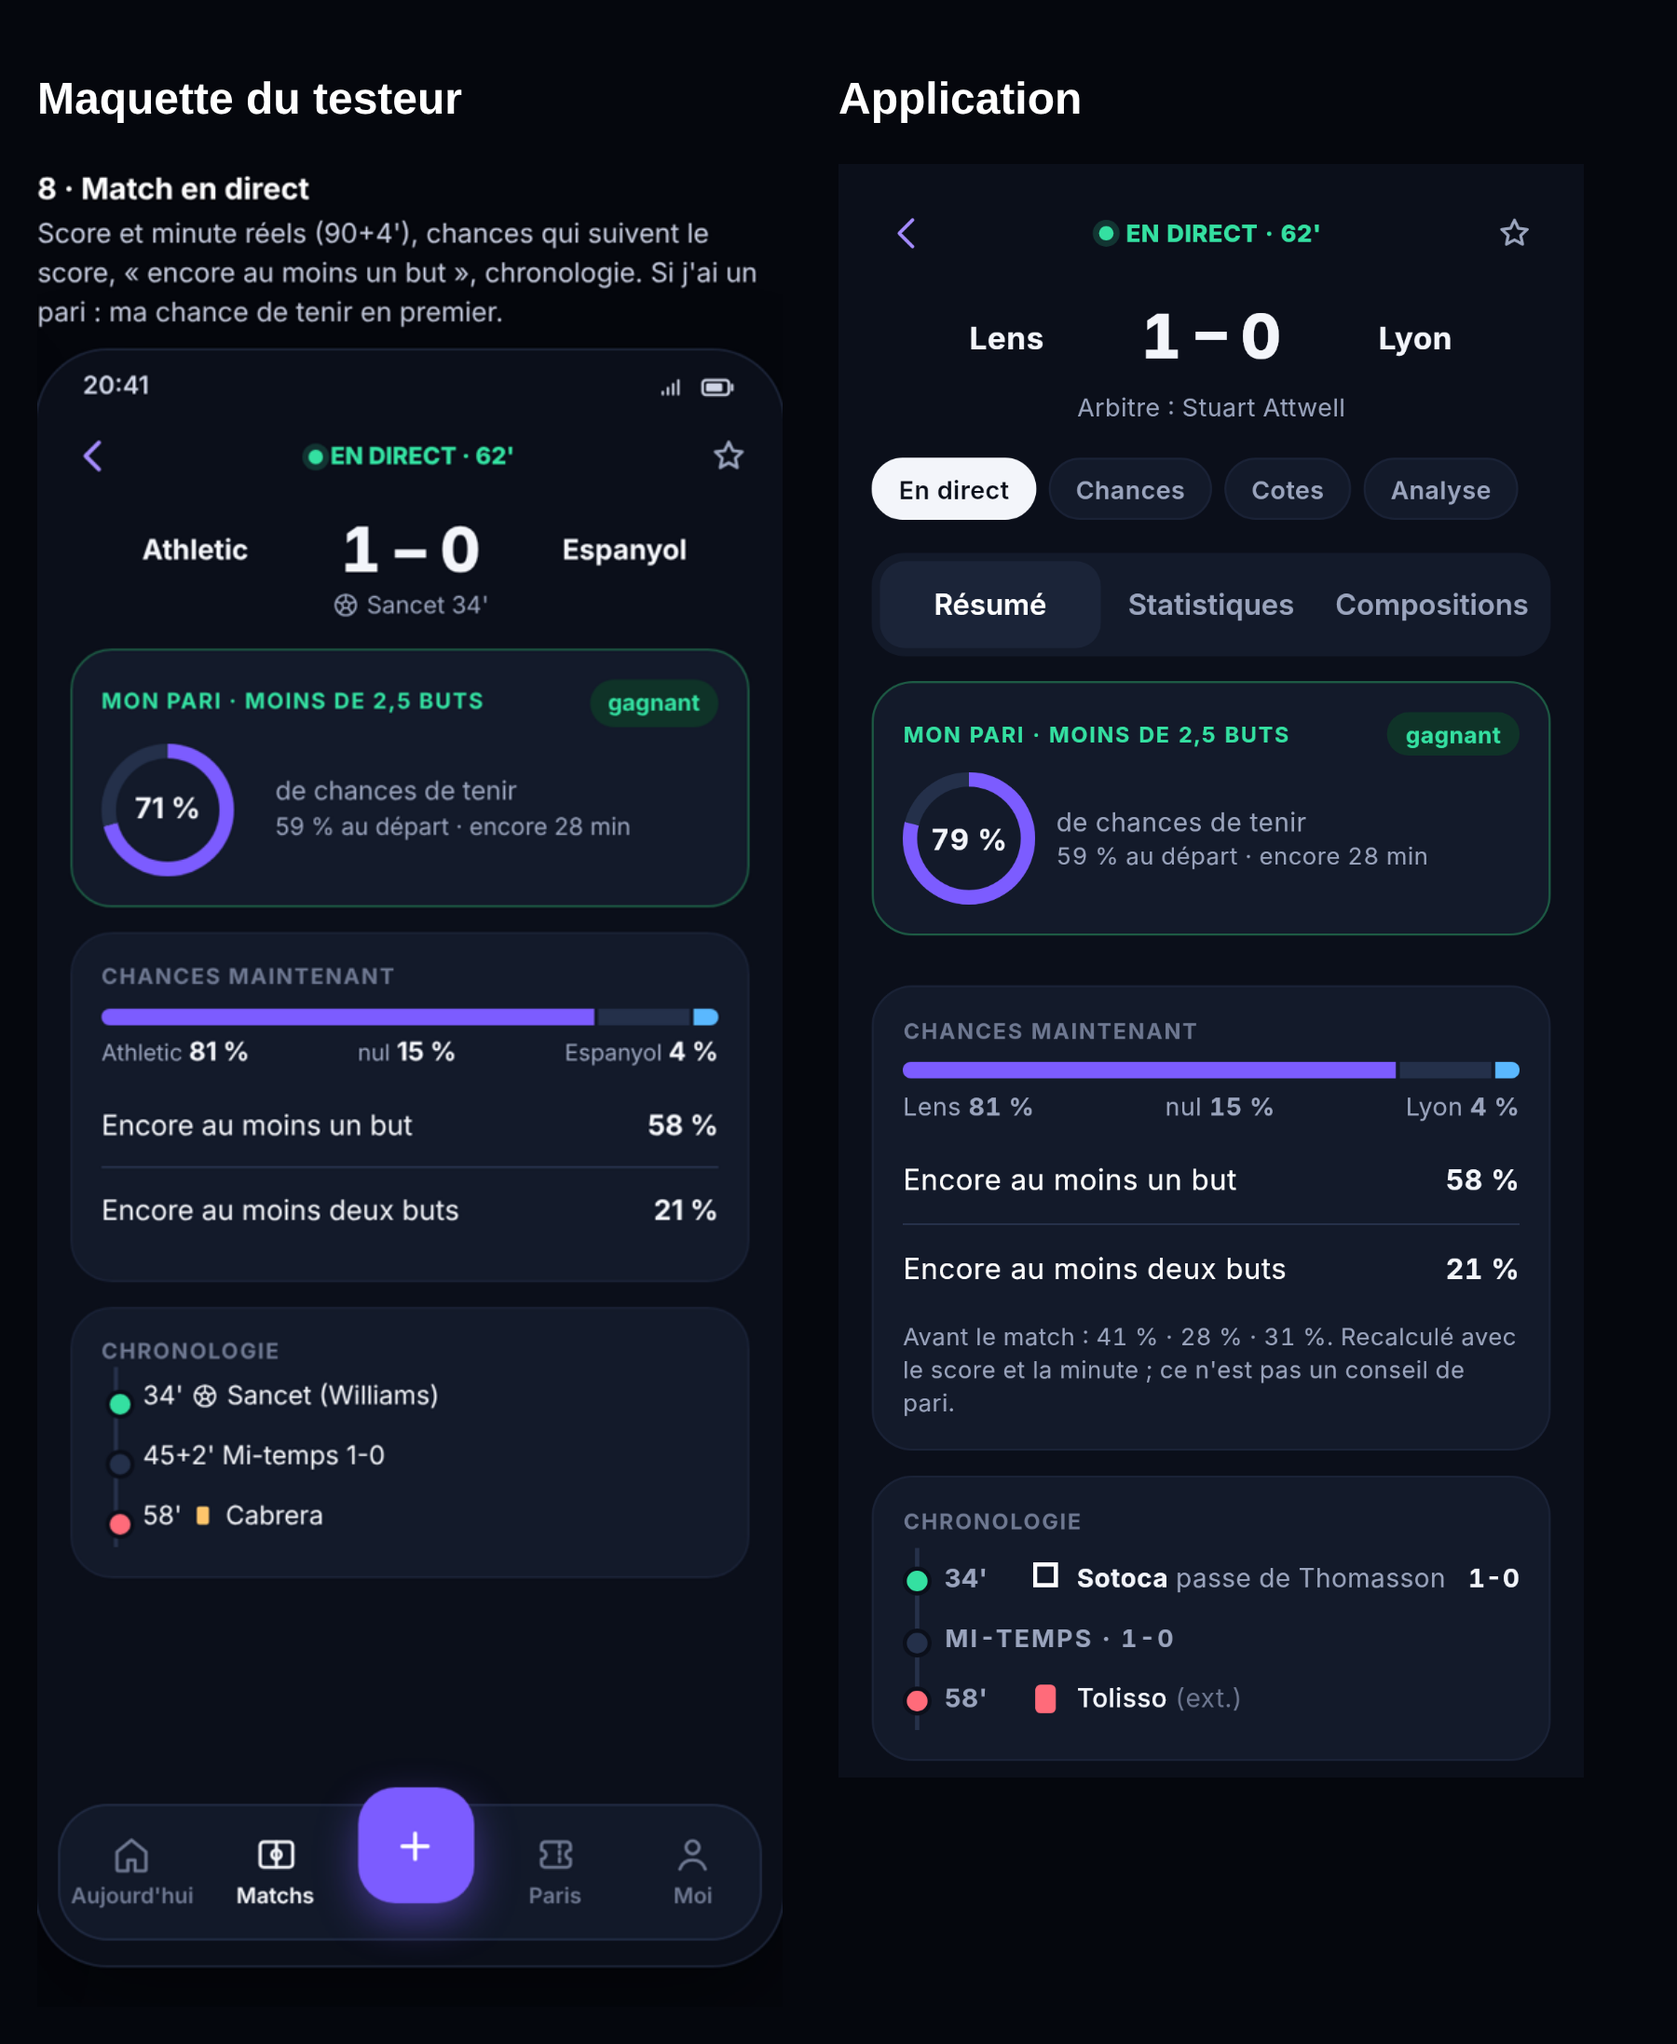
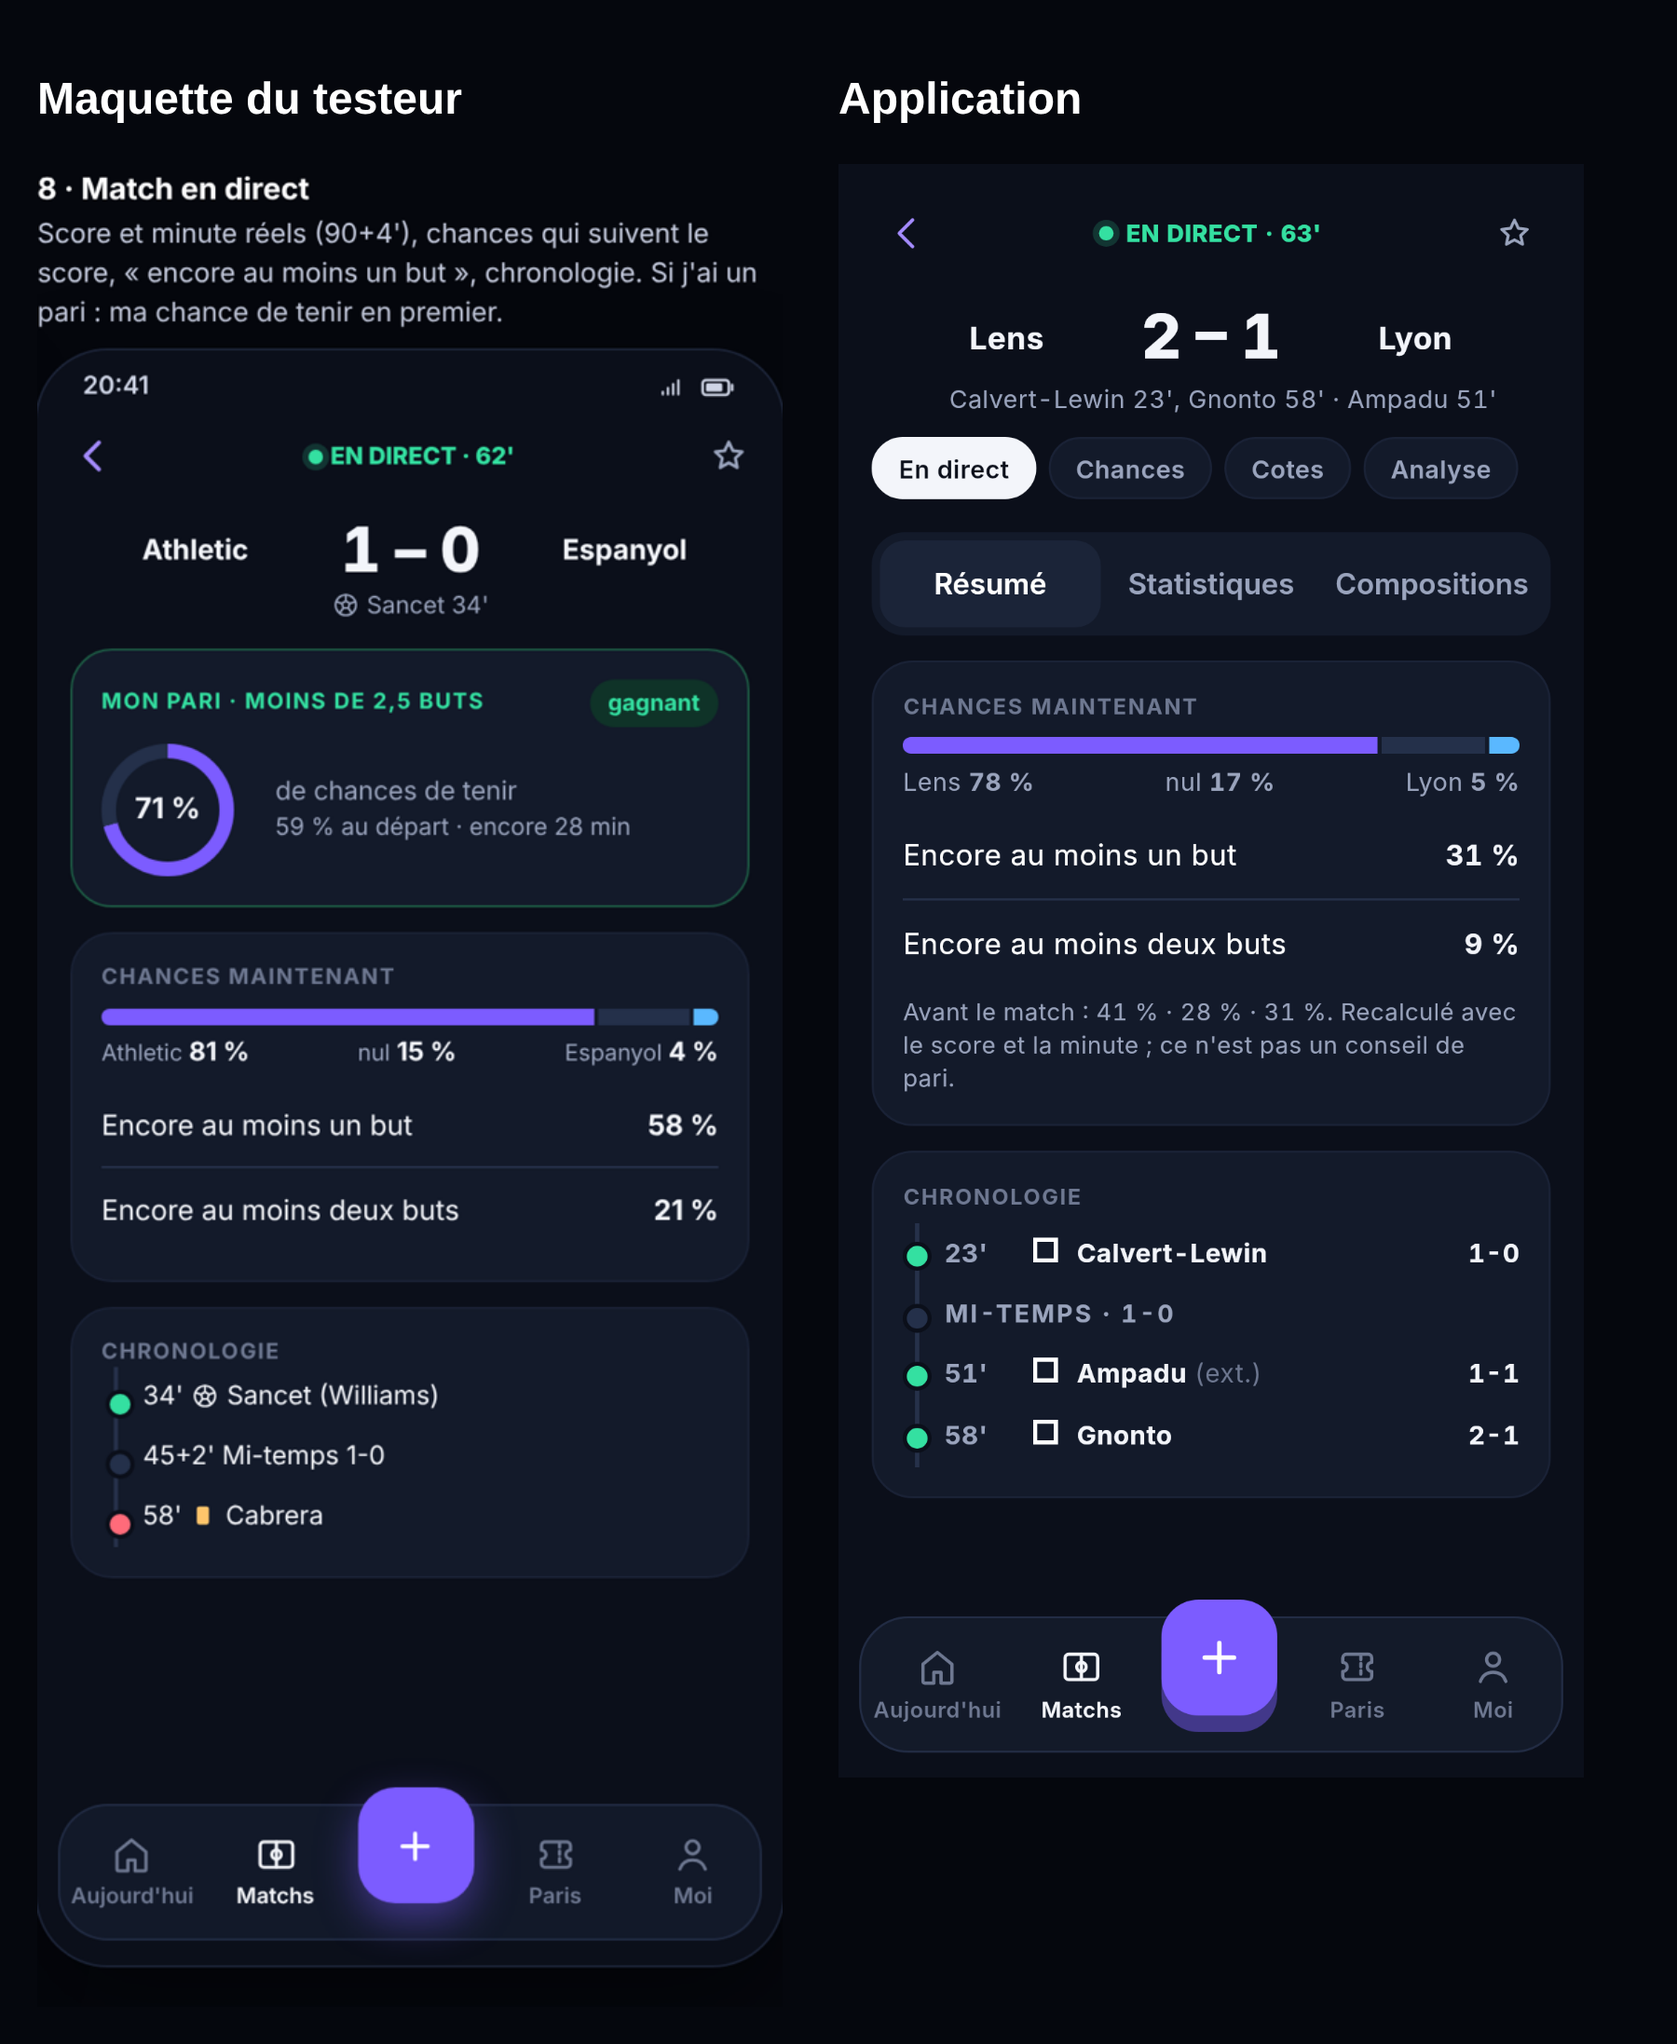
Revue des maquettes 07, 08, 09, 12, 13, 18, 19
- Match en direct (8) : buteurs sous le score, arbitre seulement avant le match
- Mon coupon (13) : 41 % n'est plus « 1 chance sur 2 » mais « environ 4 fois sur 10 »
- Fiche d'un pari (19) et partout hors fiche du match : un marché d'une seule équipe
  dit laquelle (« Buts de Ghana · Moins de 3,5 buts »)
- Comparaisons côte à côte mises à jour

Claude-Session: https://claude.ai/code/session_01D1BNdygW426Eq3G75yyrXh

diff --git a/app/lib/screens/match_screen.dart b/app/lib/screens/match_screen.dart
@@ -126,6 +126,14 @@ class _MatchViewState extends State<_MatchView> {
   // d'office pendant le match (maquette D2, plan du 10/11/2026, étape 7).
   late int tab = widget.data.match.isLive ? 0 : (widget.data.match.started ? 1 : 0);
 
+  /// Buteurs sous le score (maquette 8), tirés du relevé lu par l'onglet du direct.
+  String? scorers;
+
+  void _setScorers(List<Json> events) {
+    final line = scorerLine(events);
+    if (mounted && line != scorers) setState(() => scorers = line);
+  }
+
   @override
   void didUpdateWidget(_MatchView old) {
     super.didUpdateWidget(old);
@@ -157,7 +165,7 @@ class _MatchViewState extends State<_MatchView> {
     final live = m.started;
     final index = live ? tab - 1 : tab;
     final content = live && tab == 0
-        ? [LiveTab(match: m, before: _before(d))]
+        ? [LiveTab(match: m, before: _before(d), onEvents: _setScorers)]
         : switch (index) {
             0 => _probabilities(d),
             1 => _odds(context, d),
@@ -242,6 +250,17 @@ class _MatchViewState extends State<_MatchView> {
                 Expanded(child: _bigTeam(m.away, Fp.lossText)),
               ],
             ),
+          if (m.started && scorers != null)
+            Padding(
+              padding: const EdgeInsets.only(top: 2),
+              child: Text(
+                scorers!,
+                textAlign: TextAlign.center,
+                maxLines: 2,
+                overflow: TextOverflow.ellipsis,
+                style: V.mu_(12),
+              ),
+            ),
           if (m.started && !m.isLive)
             Padding(
               padding: const EdgeInsets.only(top: 2),
@@ -289,7 +308,7 @@ class _MatchViewState extends State<_MatchView> {
                   ),
                 ),
             ],
-          if (m.referee != null && (m.started || tab == 0))
+          if (m.referee != null && !m.started && tab == 0)
             Center(
               child: InkWell(
                 borderRadius: BorderRadius.circular(8),
@@ -1448,4 +1467,17 @@ class _EnginePicks extends StatelessWidget {
       ),
     );
   }
+}
+
+/// « ⚽ Calvert-Lewin 23', Gnonto 58' · Ampadu 51' » : buteurs de l'équipe à domicile puis
+/// de l'équipe à l'extérieur ; null sans but. Penalty manqué exclu, contre son camp signalé.
+String? scorerLine(List<Json> events) {
+  String side(String s) => [
+    for (final e in events)
+      if (e['kind'] == 'Goal' && e['detail'] != 'Missed Penalty' && e['side'] == s && e['player'] != null)
+        '${e['player']}${e['detail'] == 'Own Goal' ? ' (csc)' : ''} '
+            '${e['minute']}${e['extra'] != null && e['extra'] != 0 ? '+${e['extra']}' : ''}\'',
+  ].join(', ');
+  final parts = [side('home'), side('away')].where((t) => t.isNotEmpty);
+  return parts.isEmpty ? null : '⚽ ${parts.join(' · ')}';
 }

diff --git a/app/lib/screens/today_screen.dart b/app/lib/screens/today_screen.dart
@@ -627,9 +627,7 @@ class _LiveCard extends StatelessWidget {
     };
     final p = ((chances[s.matchId]?['markets'] as Map?)?['${s.market}|${s.line}|${s.selection}'] as num?)
         ?.toDouble();
-    final label = lowerLabel(
-      selectionLabel(s.market, s.line, s.selection, home: s.homeTeam, away: s.awayTeam),
-    );
+    final label = lowerLabel(pickLabel(s.market, s.line, s.selection, home: s.homeTeam, away: s.awayTeam));
     return SizedBox(
       width: 230,
       child: VCard2(
@@ -706,13 +704,7 @@ class _BetLine extends StatelessWidget {
     final title =
         montante ??
         (n == 1
-            ? selectionLabel(
-                first.market,
-                first.line,
-                first.selection,
-                home: first.homeTeam,
-                away: first.awayTeam,
-              )
+            ? pickLabel(first.market, first.line, first.selection, home: first.homeTeam, away: first.awayTeam)
             : 'Combiné · $n sélections');
     // Palier de montante pas encore joué : la date du match (maquette 35 « Lens – Lyon · sam. 20:45 »).
     final k = first.kickoffAt?.toLocal();
@@ -807,7 +799,7 @@ class _OccasionLine extends StatelessWidget {
     final home = a['home'] as String, away = a['away'] as String;
     final engine = (a['engine'] as num).toDouble(), implied = (a['implied'] as num).toDouble();
     final label = lowerLabel(
-      selectionLabel(
+      pickLabel(
         a['market'] as String,
         (a['line'] ?? '') as String,
         a['selection'] as String,

diff --git a/app/lib/screens/live_coupon_screen.dart b/app/lib/screens/live_coupon_screen.dart
@@ -275,7 +275,7 @@ class _MatchRow extends StatelessWidget {
                         child: Column(
                           crossAxisAlignment: CrossAxisAlignment.start,
                           children: [
-                            Text(selectionLabel(s.market, s.line, s.selection, home: m.home, away: m.away)),
+                            Text(pickLabel(s.market, s.line, s.selection, home: m.home, away: m.away)),
                             Text(
                               '$profile · moteur ${chancePercent(s.probability)} · cote ${chancePercent(implied(s))}',
                               style: V.mu_(),
@@ -345,7 +345,7 @@ class _ComboSheet extends StatelessWidget {
                               style: Fp.body(12, color: Fp.muted),
                             ),
                             Text(
-                              selectionLabel(s.market, s.line, s.selection, home: m.home, away: m.away),
+                              pickLabel(s.market, s.line, s.selection, home: m.home, away: m.away),
                               style: Fp.body(14.5, weight: FontWeight.w700),
                             ),
                             Text(

diff --git a/app/test/format_test.dart b/app/test/format_test.dart
@@ -43,6 +43,11 @@ void main() {
     expect(selectionLabel('1X2', '', 'draw', home: h, away: a), 'Match nul');
     expect(selectionLabel('DC', '', 'X2', home: h, away: a), 'Nul ou Lyon');
     expect(selectionLabel('OU', '2.5', 'over'), 'Plus de 2,5 buts');
+    expect(pickLabel('OU', '2.5', 'over'), 'Plus de 2,5 buts');
+    expect(
+      pickLabel('TEAM_OU_AWAY', '3.5', 'under', home: 'Somalie', away: 'Ghana'),
+      'Buts de Ghana · Moins de 3,5 buts',
+    );
     expect(selectionLabel('OU', '0.5', 'under'), 'Moins de 0,5 but');
     // Handicap asiatique : ligne côté domicile, l'extérieur a la ligne opposée.
     expect(selectionLabel('AH', '-0.25', 'home', home: h, away: a), 'Lens (−0,25)');
@@ -77,6 +82,8 @@ void main() {
     expect(chanceInWords(0.5), 'environ 5 fois sur 10');
     expect(chanceInWords(1 / 60), '1 chance sur 60');
     expect(chanceInWords(0.3), '1 chance sur 3');
+    expect(chanceInWords(0.23), '1 chance sur 4');
+    expect(chanceInWords(0.41), 'environ 4 fois sur 10'); // pas « 1 chance sur 2 »
   });
 
   test('numéro Wave groupé deux par deux', () {

diff --git a/app/lib/screens/smart_coupon_screen.dart b/app/lib/screens/smart_coupon_screen.dart
@@ -925,7 +925,7 @@ class _SmartCouponScreenState extends State<SmartCouponScreen> {
                             Text(
                               [
                                 lowerLabel(
-                                  selectionLabel(
+                                  pickLabel(
                                     s['market'] as String,
                                     (s['line'] ?? '') as String,
                                     s['selection'] as String,
@@ -1776,7 +1776,7 @@ class _Example extends StatelessWidget {
                         children: [
                           Text('${s['home']} – ${s['away']}', style: Fp.body(13.5)),
                           Text(
-                            selectionLabel(
+                            pickLabel(
                               '${s['market']}',
                               '${s['line'] ?? ''}',
                               '${s['selection']}',

diff --git a/app/test/scorer_line_test.dart b/app/test/scorer_line_test.dart
@@ -1,0 +1,18 @@
+import 'package:flutter_test/flutter_test.dart';
+import 'package:footprono/screens/match_screen.dart' show scorerLine;
+
+void main() {
+  test('buteurs sous le score : domicile puis extérieur, penalty manqué exclu', () {
+    expect(scorerLine([]), isNull);
+    expect(
+      scorerLine([
+        {'minute': 23, 'side': 'home', 'kind': 'Goal', 'detail': 'Normal Goal', 'player': 'Calvert-Lewin'},
+        {'minute': 30, 'side': 'away', 'kind': 'Goal', 'detail': 'Missed Penalty', 'player': 'X'},
+        {'minute': 45, 'extra': 2, 'side': 'away', 'kind': 'Goal', 'detail': 'Own Goal', 'player': 'Ampadu'},
+        {'minute': 58, 'side': 'home', 'kind': 'Goal', 'detail': 'Penalty', 'player': 'Gnonto'},
+        {'minute': 60, 'side': 'home', 'kind': 'Card', 'detail': 'Yellow Card', 'player': 'Y'},
+      ]),
+      "⚽ Calvert-Lewin 23', Gnonto 58' · Ampadu (csc) 45+2'",
+    );
+  });
+}

diff --git a/app/lib/screens/live_tab.dart b/app/lib/screens/live_tab.dart
@@ -29,8 +29,11 @@ const liveStatLabels = [
 ];
 
 class LiveTab extends StatefulWidget {
-  const LiveTab({super.key, required this.match, this.before, this.section});
+  const LiveTab({super.key, required this.match, this.before, this.section, this.onEvents});
   final MatchInfo match;
+
+  /// Événements du match à chaque relevé (buteurs sous le score, maquette 8).
+  final ValueChanged<List<Json>>? onEvents;
 
   /// Une seule partie, sans les onglets (2 : compositions, onglet « Compos » avant le match).
   final int? section;
@@ -81,6 +84,7 @@ class _LiveTabState extends State<LiveTab> {
           data = j;
           error = null;
         });
+        widget.onEvents?.call([for (final e in j['events'] as List? ?? const []) e as Json]);
       }
     } on ApiException catch (e) {
       if (mounted && data == null) setState(() => error = e);

diff --git a/app/lib/labels.dart b/app/lib/labels.dart
@@ -269,6 +269,19 @@ String fullLabel(
   return '${marketTitle(market, home: home, away: away)} · $s';
 }
 
+/// Libellé d'une sélection hors de la fiche du match (coupon, pari, montante) : un marché
+/// d'une seule équipe garde son titre (« Buts de Ghana · Moins de 3,5 buts »), sinon
+/// « moins de 3,5 buts » ne disait pas de quelle équipe (revue de la maquette 19, 24/11/2026).
+String pickLabel(
+  String market,
+  String line,
+  String sel, {
+  String home = 'Domicile',
+  String away = 'Extérieur',
+}) => market.contains('TEAM_')
+    ? fullLabel(market, line, sel, home: home, away: away)
+    : selectionLabel(market, line, sel, home: home, away: away);
+
 /// Libellés des états d'un pari ou d'une sélection.
 String betStatusLabel(String status, String? outcome) {
   if (status == 'open') return 'En cours';

diff --git a/app/lib/format.dart b/app/lib/format.dart
@@ -144,10 +144,13 @@ String teamCode(String name) {
 
 /// Chance d'un pari en mots : « 1 chance sur 60 » pour un pari improbable, « environ 7 fois
 /// sur 10 » au-delà de 50 % (« 1 chance sur 1 » laissait croire qu'un pari à 72 % était
-/// certain, essai du 07/11/2026).
+/// certain, essai du 07/11/2026). Entre 20 et 50 %, « 1 chance sur N » seulement si c'est
+/// juste à 3,5 points près : 41 % n'est pas « 1 chance sur 2 » mais « environ 4 fois sur 10 »
+/// (revue de la maquette 13, 24/11/2026).
 String chanceInWords(double p) {
   if (p <= 0) return '';
-  if (p < 0.5) return '1 chance sur ${(1 / p).round()}';
+  final n = (1 / p).round();
+  if (p < 0.2 || (p < 0.5 && (1 / n - p).abs() <= 0.035)) return '1 chance sur $n';
   return 'environ ${(p * 10).round()} fois sur 10';
 }
 

diff --git a/app/lib/screens/montante_screen.dart b/app/lib/screens/montante_screen.dart
@@ -830,7 +830,7 @@ class _MontanteViewState extends State<MontanteView> {
     String betLabel(Bet b) => switch (b.selections) {
       // Maquette 15 : « Brest – Nantes, +1,5 but », « Lens ou nul » (l'équipe suffit).
       [final x] => switch (lowerLabel(
-        selectionLabel(x.market, x.line, x.selection, home: x.homeTeam, away: x.awayTeam),
+        pickLabel(x.market, x.line, x.selection, home: x.homeTeam, away: x.awayTeam),
       ).replaceFirst(RegExp(r'^plus de '), '+').replaceFirst(RegExp(r'^moins de '), '−')) {
         final l when l.contains(x.homeTeam) || l.contains(x.awayTeam) => l,
         final l => '${x.homeTeam} – ${x.awayTeam}, $l',

diff --git a/app/lib/widgets/live_chances.dart b/app/lib/widgets/live_chances.dart
@@ -307,7 +307,7 @@ class _MyBetCard extends StatelessWidget {
       'push' || 'void' => ('remboursé', VChipKind.eq),
       _ => (null, VChipKind.eq),
     };
-    final label = selectionLabel(s.market, s.line, s.selection, home: match.home.name, away: match.away.name);
+    final label = pickLabel(s.market, s.line, s.selection, home: match.home.name, away: match.away.name);
     final left = 90 - minute;
     return VCard(
       top: 0,

diff --git a/app/lib/screens/bet_screen.dart b/app/lib/screens/bet_screen.dart
@@ -135,7 +135,7 @@ class _BetScreenState extends State<BetScreen> {
                                 ),
                                 Text(
                                   lowerLabel(
-                                    selectionLabel(
+                                    pickLabel(
                                       s.market,
                                       s.line,
                                       s.selection,
